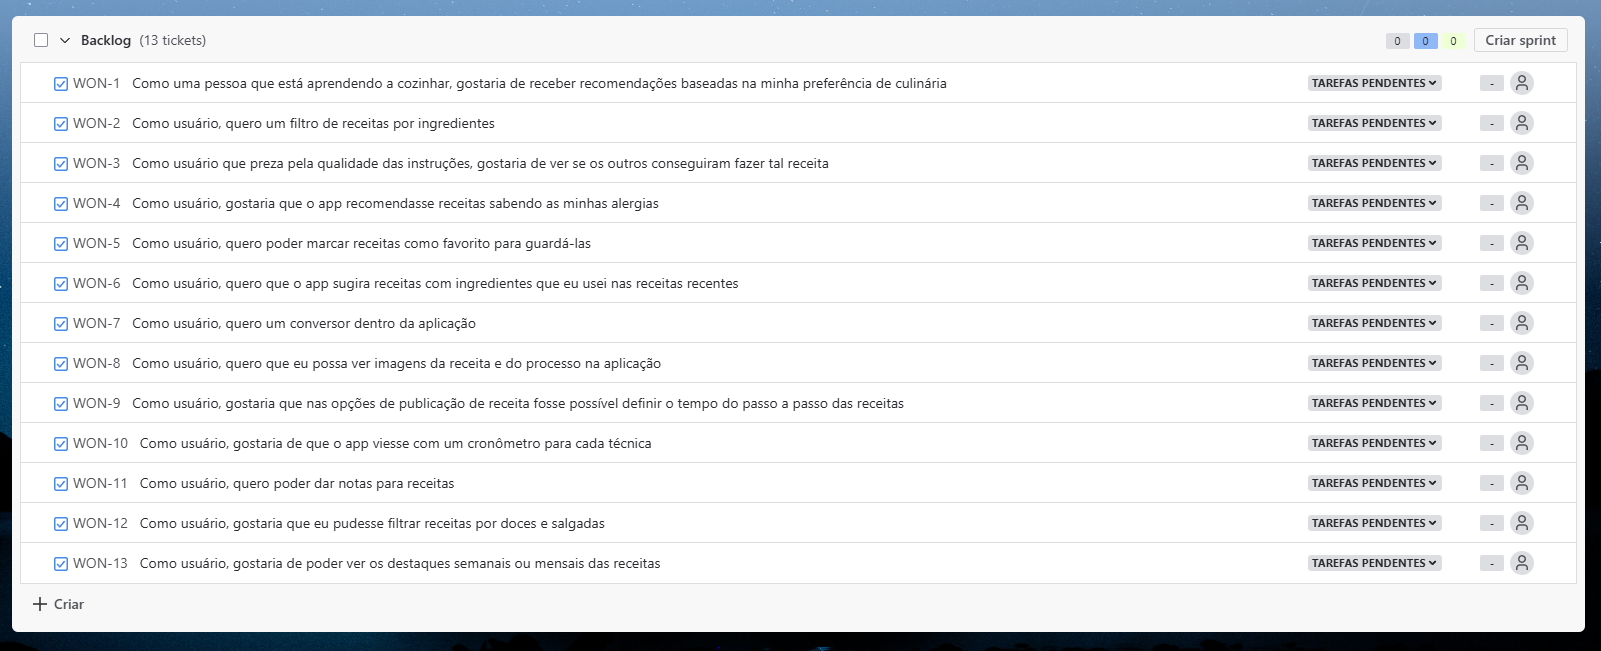
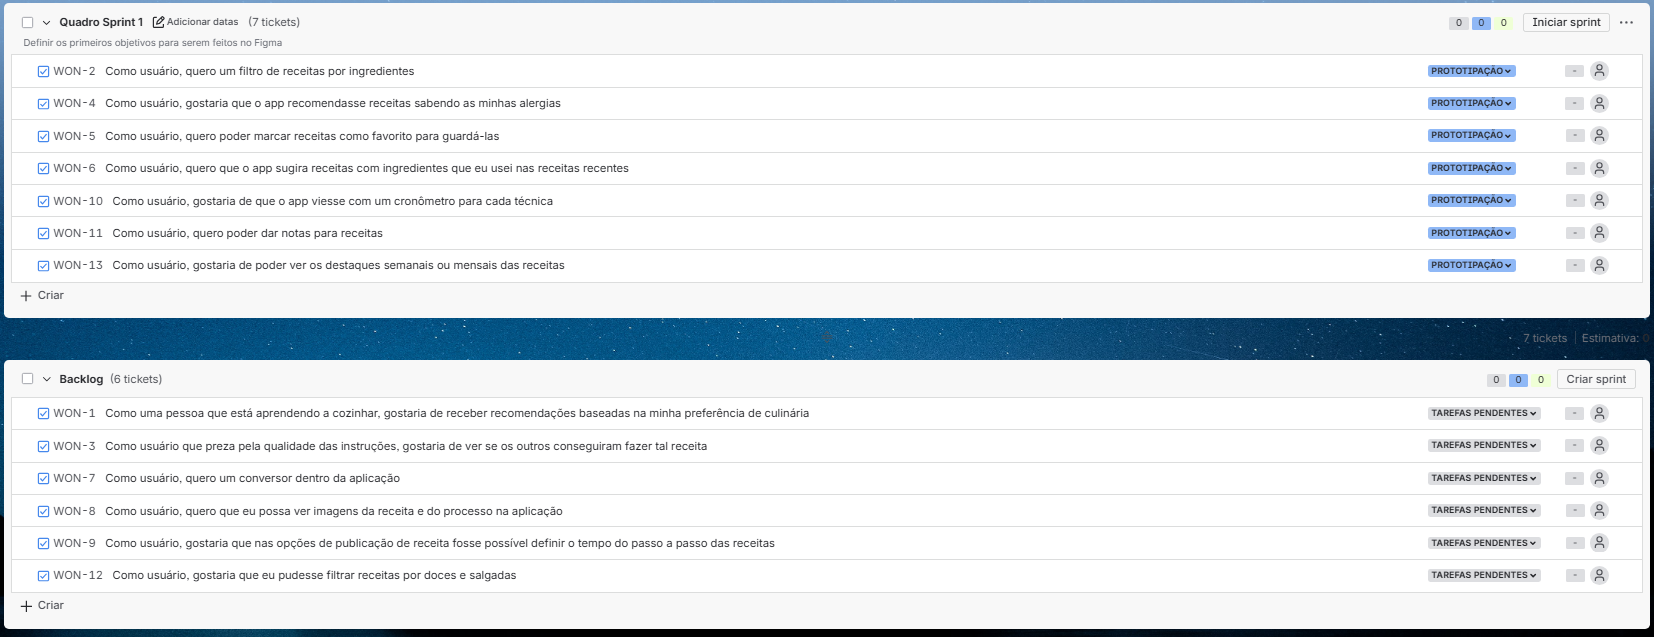
Colocado imagens do backlog e quadro sprint

Changed region(s): [[0.0, 0.0, 1.0, 1.0]]

diff --git a/README.md b/README.md
@@ -17,17 +17,19 @@ Wondercooking é uma aplicação web feita para pesquisa, visualização e compa
 
 ## 📝 Jira:
 
-<a href = "https://cesar-team-pz3i66at.atlassian.net/jira/software/projects/WON/boards/34" target = "_blanck">Link do Jira</a>
+[Link do Jira](https://cesar-team-pz3i66at.atlassian.net/jira/software/projects/WON/boards/34)
 
-<a href = "https://docs.google.com/document/d/1IX6r9FOJcd_eR8FyVsrMSKdi9eVuUcwD_jcz5_sBhKQ/edit?tab=t.0" target = "_blanck">Link do Docs</a>
+[Link do Docs](https://docs.google.com/document/d/1IX6r9FOJcd_eR8FyVsrMSKdi9eVuUcwD_jcz5_sBhKQ/edit?tab=t.0)
 
-<img src="" alt = "Quadro Sprint" width = "400">
+Backlog:
+<img src="Imagens/Backlog.png" alt = "Backlog" width = "600">
 
-<img src="" alt = "Backlog" width = "400">
+Quadro sprint:
+<img src="Imagens/Quadro_sprint.png" alt = "Quadro sprint" width = "600">
 
 ## 🎨 Figma:
 
-<a href = "https://www.youtube.com" target = "_blanck">Screencast</a>
+[Screencast](https://www.youtube.com)
 
 <img src="" alt = "Figma" width = "400">
 
